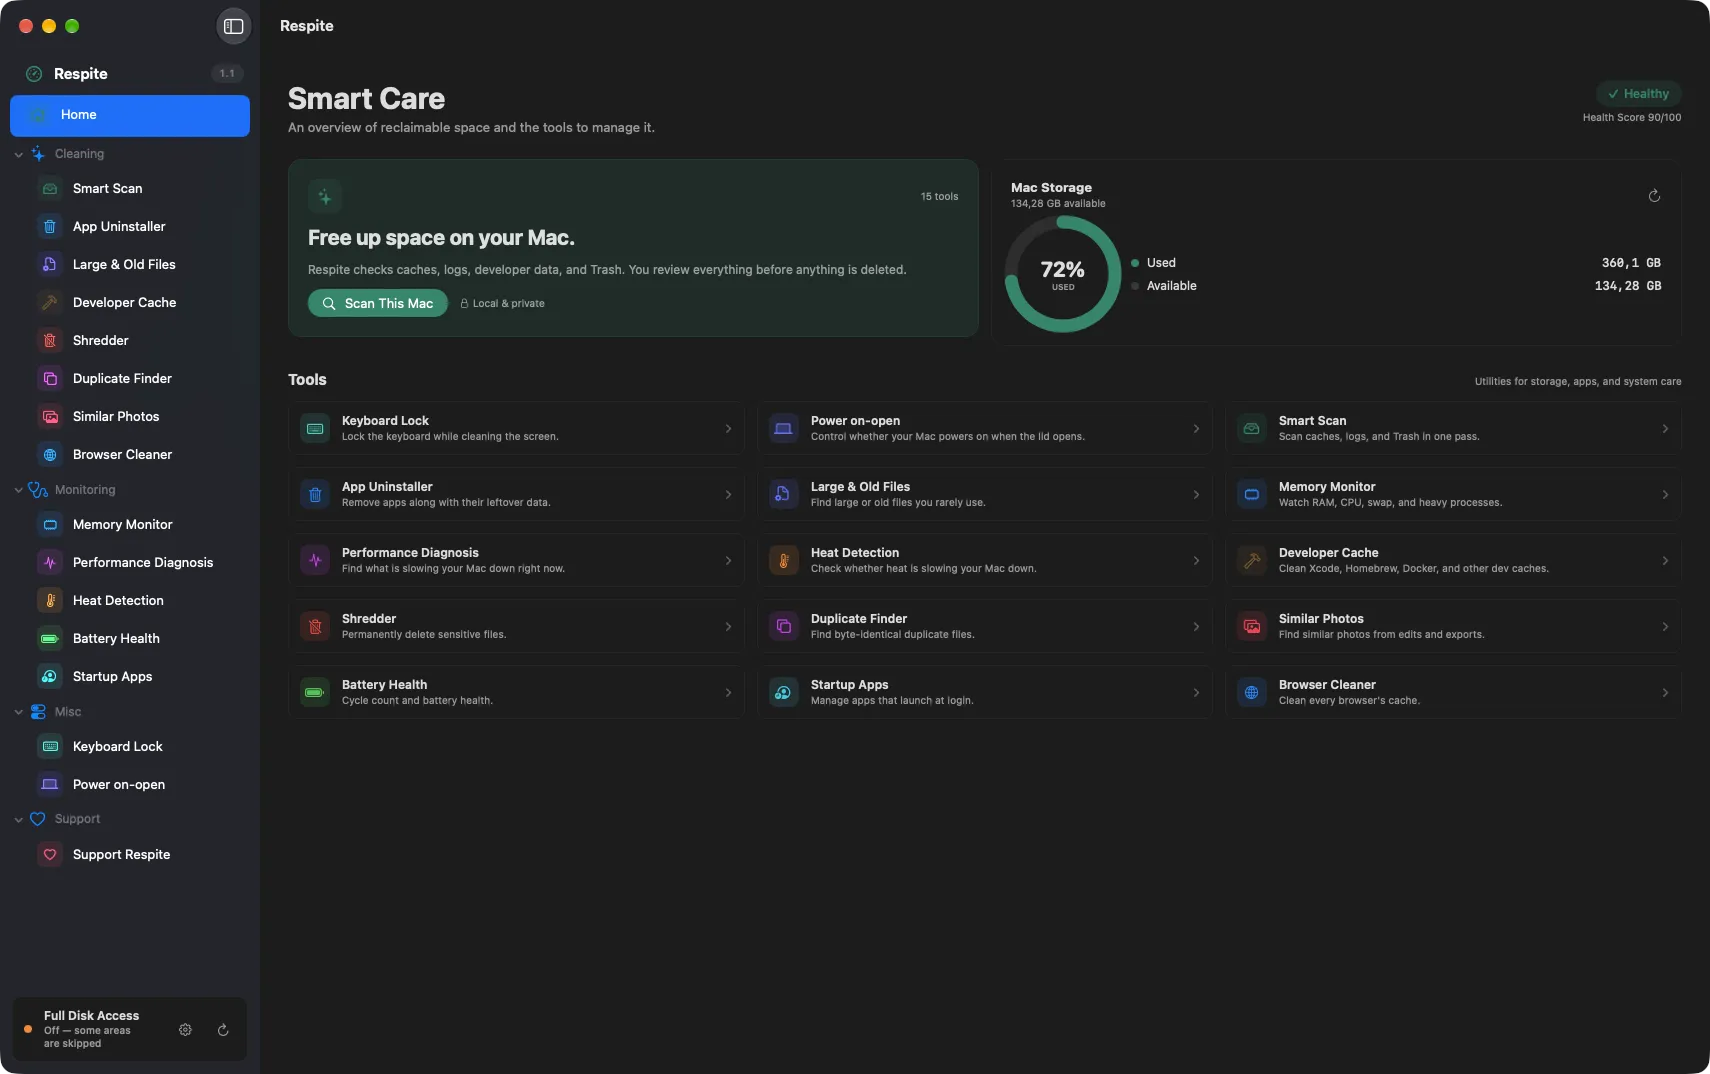
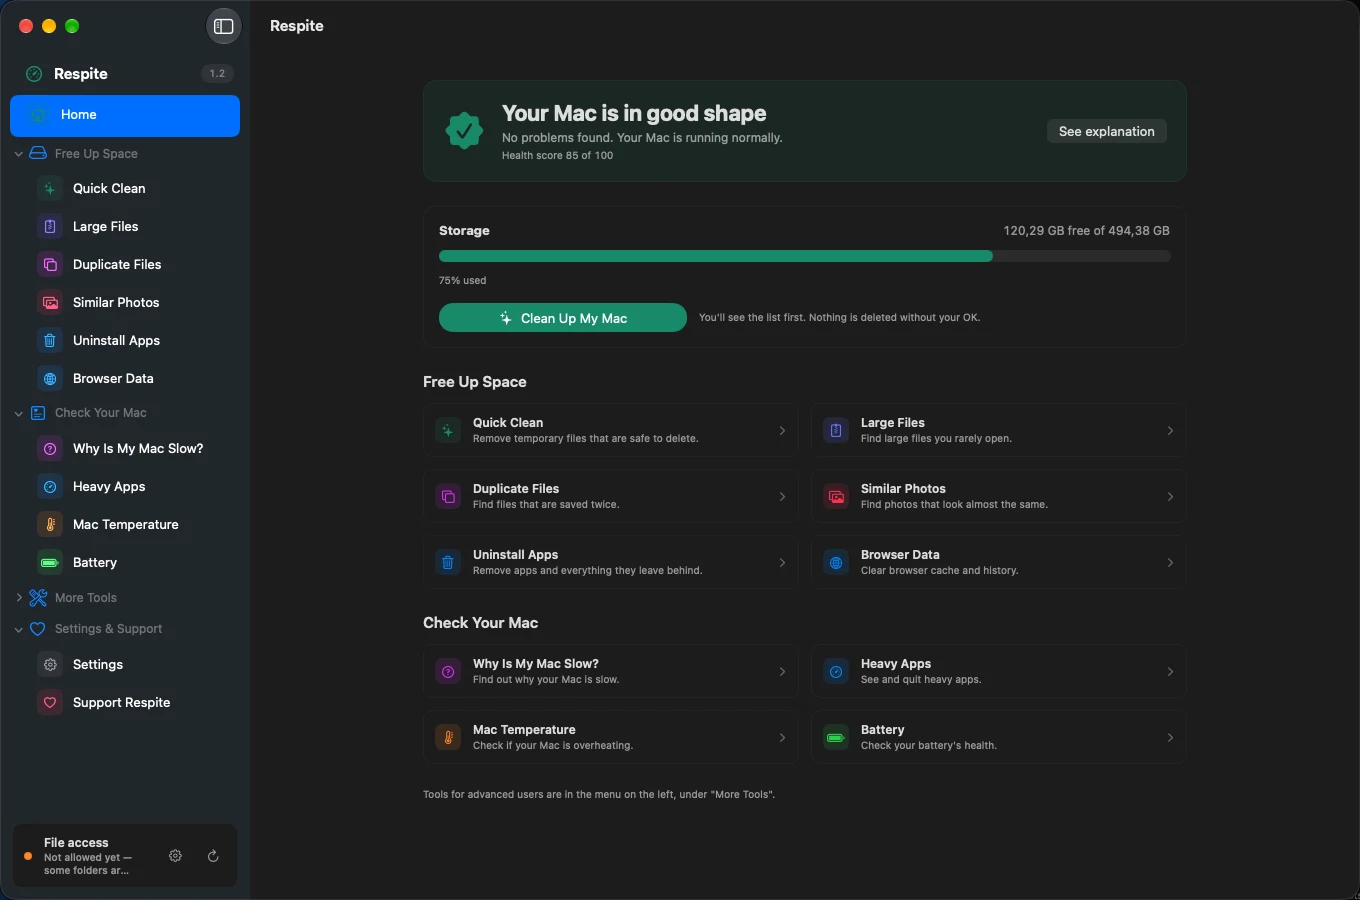
docs: refresh README screenshots and copy for the 1.2.0 redesign
Replace the old-design screenshots with new English ones (Home, Why Is My
Mac Slow?, Mac Temperature), drop unused old images, and update feature
names, safety notes, temperature note, test count and language default to
match the redesigned app.

diff --git a/README.md b/README.md
@@ -4,54 +4,60 @@ A calm macOS cleaner. Free, local, and honest about what it can and can't do.
 
 ![License](https://img.shields.io/badge/license-GPL--3.0-blue)
 ![Platform](https://img.shields.io/badge/macOS-13%2B-lightgrey)
-![Tests](https://img.shields.io/badge/unit%20tests-121%20passing-success)
+![Tests](https://img.shields.io/badge/unit%20tests-135%20passing-success)
 
 Most cleaning apps are built around fear: big red numbers, warnings about a "slow Mac", one-click magic that deletes first and explains later. Respite takes the opposite approach — it scans, explains what it found and why it's safe to remove, and moves everything to the Trash so you can undo. If a number can't be trusted, it doesn't show that number at all.
 
 <p align="center">
-  <img src="assets/screens/home.webp" alt="Respite Smart Care" width="100%">
+  <img src="assets/screens/home.webp" alt="Respite Home — status, storage, and one Clean Up My Mac button" width="100%">
 </p>
 
 <p align="center">
-  <img src="assets/screens/memory.webp" alt="Memory Monitor" width="49%">
-  <img src="assets/screens/uninstaller.webp" alt="App Uninstaller" width="49%">
+  <img src="assets/screens/diagnostic.webp" alt="Why Is My Mac Slow?" width="49%">
+  <img src="assets/screens/temperature.webp" alt="Mac Temperature" width="49%">
 </p>
 
 ## What it does
 
-**Cleaning**
+Every tool works the same way: a short explanation, one **Start Scan** button, a clear "X GB can be freed" summary, and one main action. Technical details stay behind **Show details**.
 
-- **Smart Scan** — caches, logs, and the Trash in one pass. Results are grouped per app, each with an explanation of why removal is safe.
-- **App Uninstaller** — removes apps with their leftover data, and finds orphaned files left behind by apps you deleted long ago.
-- **Large & Old Files**, **Duplicate Finder** (byte-identical, hard-link aware), **Similar Photos** (perceptual hashing, EXIF-aware).
-- **Developer Caches** — Xcode, Homebrew, CocoaPods/SPM, Composer, Go, Cargo, node_modules, and local AI app logs (Ollama / LM Studio — models are never touched).
-- **Browser Cleaner** — Chrome, Arc, Brave, Edge, Firefox, Safari. Running browsers are locked, with an explanation why.
+**Free Up Space**
 
-**Monitoring**
+- **Quick Clean** — app caches and old logs in one pass, grouped per app, each with a reason why it's safe to remove.
+- **Large Files** — big files you haven't opened in a long time. Recently used files are never pre-selected.
+- **Duplicate Files** (exact copies, hard-link aware) and **Similar Photos** (near-identical shots, EXIF-aware). One copy in every group is always kept.
+- **Uninstall Apps** — removes an app together with its leftover files, and finds leftovers from apps you deleted long ago.
+- **Browser Data** — cache, history, or cookies for Chrome, Arc, Brave, Edge, Firefox, and Safari. Open browsers are skipped, with an explanation why.
 
-- Menu bar with a live Health Score, memory/CPU/disk metrics, and one-click "Scan This Mac".
-- Process management with Stop and Force Stop, plus plain-language failure reasons.
-- Thermal state, CPU speed limit, battery health, uptime — measured, not guessed.
-- **Keyboard Lock** — hold all key presses behind a full-screen overlay while you wipe the screen. Trackpad keeps working; auto-unlocks on a timer (default 2 minutes).
-- **Power-on-when-lid-opens** toggle (firmware-level, reversible).
+**Check Your Mac**
+
+- **Why Is My Mac Slow?** — a plain-language status, what was found, and a button that takes you straight to the fix.
+- **Heavy Apps** — the apps using the most memory and processor power, with Quit and Force Quit, plus "refresh without restarting".
+- **Mac Temperature** and **Battery** — measured, not guessed.
+- Menu bar with a live health score, memory/storage/processor/temperature at a glance, and one-click **Clean Up Mac**.
+
+**More Tools** (for advanced users, folded away by default)
+
+- **Developer Cache** — Xcode, Homebrew, CocoaPods/SPM, Composer, Go, Cargo, node_modules, and local AI app logs (models are never touched).
+- **Login Apps**, **Delete Permanently**, **Keyboard Lock** (hold key presses behind a full-screen overlay while you wipe the screen), and **Power On Lid Open** (firmware-level, reversible).
 
 **Everywhere**
 
-- Every scan keeps running when you switch modules; a global banner shows what's still scanning.
-- Full Disk Access status is always visible in the sidebar, with a one-click path to fix it.
-- English and Indonesian, switchable in Settings.
+- Scans keep running when you switch tools; a banner shows what's still scanning.
+- File-access permission status is always visible in the sidebar, with a one-click path to fix it.
+- **English by default**, with full Indonesian — switch in Settings, which is also available right inside the main window.
 
 ## How it stays safe
 
-- Everything removable goes to the **Trash** first. The only irreversible module is the Shredder, behind layered confirmation.
+- Everything removable goes to the **Trash** first. The only irreversible tool is Delete Permanently, behind a type-to-confirm step.
 - Every destructive action is written to an audit **ledger before** it runs — exportable from Settings.
 - A hard-coded protected list guards system paths; your own exclusions sit on top, right-clickable from any result.
-- First run of each action shows a dry-run preview.
+- Every clean shows what will happen and asks first. Protected items are reported, never silently skipped or counted as "freed".
 
 ## What it won't tell you
 
 - It won't claim to clean "purgeable" space — macOS reclaims that on its own, and pretending otherwise is how cleaners inflate their numbers.
-- On most modern Apple Silicon Macs, the CPU temperature sensor is locked away from all apps. Where it's readable, Respite shows it; where it isn't, it stays quiet instead of inventing a number.
+- CPU temperature comes from the Mac's own sensors (Intel and Apple Silicon). If a Mac doesn't expose them, Respite shows the thermal state instead of inventing a number.
 - It has no background network activity. The only network call is "Check for Updates", and only when you press the button.
 
 ## Download
